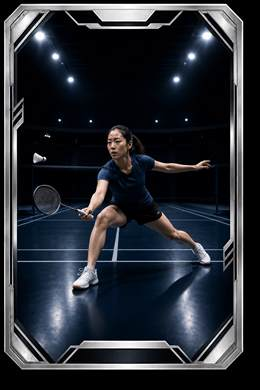
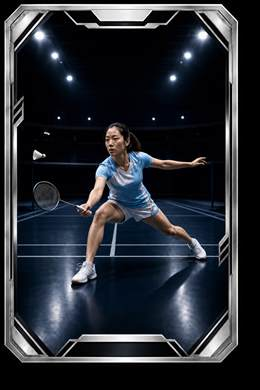
Brighten female base cards and rename male card assets

diff --git a/surge-deploy/app.js b/surge-deploy/app.js
@@ -817,19 +817,19 @@ function playerCardTier(player) {
     return {
       key: "unranked",
       label: "등록 대기",
-      art: "./assets/player-cards/c-bronze.jpg",
+      art: "./assets/player-cards/male-c-bronze.jpg",
     };
   }
   if (rating >= 1700) {
-    return { key: "s", label: "S CLASS", art: "./assets/player-cards/s-hologram.jpg" };
+    return { key: "s", label: "S CLASS", art: "./assets/player-cards/male-s-hologram.jpg" };
   }
   if (rating >= 1500) {
-    return { key: "a", label: "A CLASS", art: "./assets/player-cards/a-gold.jpg" };
+    return { key: "a", label: "A CLASS", art: "./assets/player-cards/male-a-gold.jpg" };
   }
   if (rating >= 1300) {
-    return { key: "b", label: "B CLASS", art: "./assets/player-cards/b-silver.jpg" };
+    return { key: "b", label: "B CLASS", art: "./assets/player-cards/male-b-silver.jpg" };
   }
-  return { key: "c", label: "C CLASS", art: "./assets/player-cards/c-bronze.jpg" };
+  return { key: "c", label: "C CLASS", art: "./assets/player-cards/male-c-bronze.jpg" };
 }
 
 function playerCardArtUrl(player, tier) {

diff --git a/surge-deploy/index.html b/surge-deploy/index.html
@@ -95,7 +95,7 @@
 
           <div id="authSignedIn" class="auth-session" hidden>
             <article id="currentPlayerCard" class="player-card player-card--unranked" aria-label="내 선수 카드">
-              <img id="currentPlayerCardArt" class="player-card__art" src="./assets/player-cards/c-bronze.jpg" alt="배드민턴 선수 카드 아트" decoding="async">
+              <img id="currentPlayerCardArt" class="player-card__art" src="./assets/player-cards/male-c-bronze.jpg" alt="배드민턴 선수 카드 아트" decoding="async">
               <div class="player-card__content">
                 <div class="player-card__topline">
                   <span class="player-card__eyebrow">HONEY SERVE PLAYER CARD</span>
